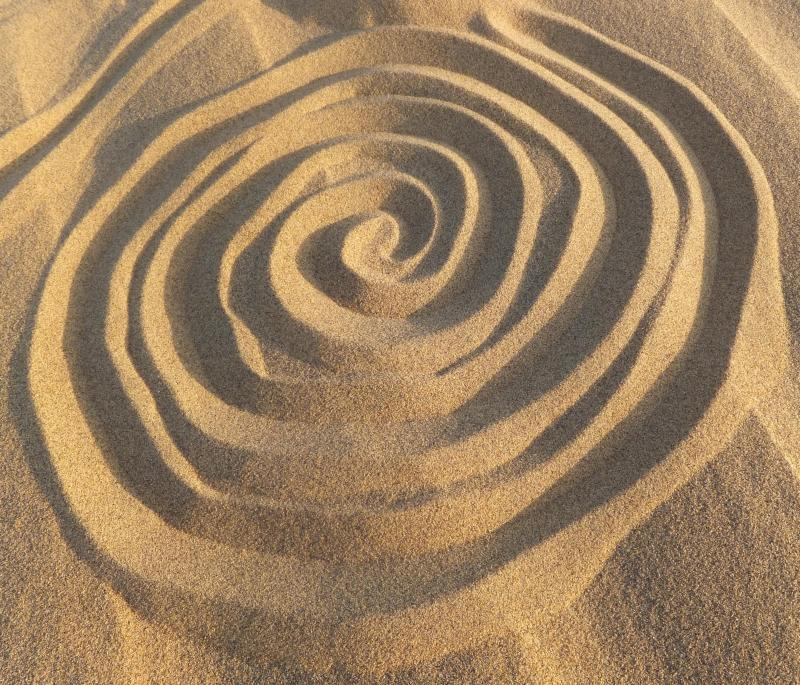
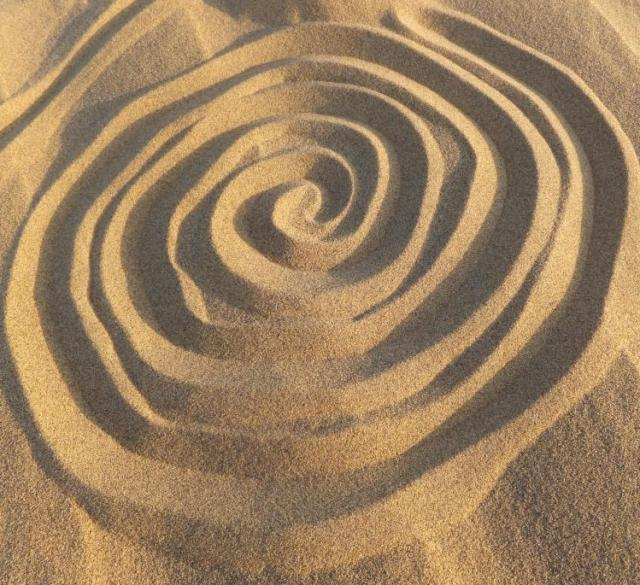
odkaz na přihlášku indiv.lekce + výměna fotek

diff --git a/index.md b/index.md
@@ -3,19 +3,19 @@ title: Jóga je živá cesta prošlapávaná již tisíce let
 layout: splash
 excerpt: Vyzkoušej, jak může pomoci tobě...
 header:
-  overlay_image: /assets/images/header01.jpeg
+  overlay_image: /assets/images/DSCF5705.JPG
   overlay_filter: 0.2
   overlay_color: #000
 intro:
   - excerpt: Jóga učí, jak se zastavit v běhu dní a vnímat přítomnost. Přináší zklidnění a radost, pomáhá nám spřátelit se s tím, kým jsme.
 feature_row:
-  - image_path: /assets/images/pisek-mandala.jpeg
+  - image_path: /assets/images/rybalka3.jpeg
     alt: Skupinové lekce
     title: Skupinové lekce
     excerpt: Pravidelná cvičení ve skupinách do 10 lidí.
     url: /skupiny/
     btn_class: "btn--primary"
-  - image_path: /assets/images/vodopad.jpeg
+  - image_path: /assets/images/5F3A2481.jpg
     alt: Individuální lekce
     title: Individuální lekce
     excerpt: Cvičení jógy dle individuálních potřeb.

diff --git a/_pages/kdo jsem.md b/_pages/kdo jsem.md
@@ -7,3 +7,5 @@ Jsem cvičitelka jógy - jóga mne přitáhla ještě v období mého studia na 
 Po mnoha letech vlastní praxe, účasti na různých seminářích a kurzech jsem absolvovala kurz pro cvičitele jógy získala certifikát cvičitelky, abych mohla vést skupinové i individuální lekce. Dělá mi radost, když mohu pomoci ostatním cítit se lépe – fyzicky i psychicky. Zároveň i pro mne jsou lekce nesmírně obohacující zkušeností na mé vlastní cestě jemné jógy.
 
 V kolébce jógy – Indii – jsem byla zatím dvakrát a cítila jsem tam duchovnost až do morku kostí. Doufám, že se tam ještě podívám, přesto jsem šťastná tady a teď - v české kotlině.
+
+![pozice]({{ site.baseurl }}/assets/images/5F3A2544.jpg){:height="553px" width="350px" .align-center}

diff --git a/_pages/skupinove lekce.md b/_pages/skupinove lekce.md
@@ -14,4 +14,4 @@ Při cvičení propojujeme dech, tělo i mysl, můžeme se zklidnit v běhu dní
 |Ordinace PL Karlín, s.r.o.<br/>Šaldova 24<br/>Praha 8 - Karlín| Centrum Rybalka<br/>Rybalkova 55<br/>Praha 10 - Vršovice|
 |200 Kč/lekce (pololetní předplatné)<br/>250 Kč/lekce (jednorázová účast)|150 Kč/lekce (pololetní předplatné)<br/>200 Kč/lekce (jednorázová účast)|
 |======|======|
-|[Přihláška](http://ow.ly/fN7V30fSWIN)                         | [Přihláška](https://docs.google.com/forms/d/e/1FAIpQLScX4KyS0UKryEC8-ZRAVG1NFVd_cwCj4_cIGfcSY1TmJwEC8g/viewform)|
+|[Přihláška](http://ow.ly/fN7V30fSWIN)                         | [Přihláška](https://goo.gl/forms/tjNq4USOVAQxTP5k2)|

diff --git a/_pages/jemna joga.md b/_pages/jemna joga.md
@@ -9,4 +9,4 @@ Kombinuji klasický přístup hathajógy s vývojovou kineziologií vycházejíc
 
 Jemná jóga je pro mne cestou sebepoznání, vnitřní transformace, díky které přinášíme vědomí do svého života. Uvědomujeme si, kým jsme, a přijímáme svoji vnitřní podstatu. V sebepoznání se otevíráme novému pohledu na svět, otevíráme své srdce a mysl novým možnostem, učíme se nacházet vlastní zdroje, radost a lehkost.
 
-![pozice]({{ site.baseurl }}/assets/images/monika02.jpeg){:height="553px" width="350px" .align-center}
+![pozice]({{ site.baseurl }}/assets/images/5F3A2533.jpg){:height="553px" width="350px" .align-center}

diff --git a/_pages/individualni lekce.md b/_pages/individualni lekce.md
@@ -15,3 +15,6 @@ Cena
 1 individuální lekce jógy (80 min) - pro 2 osoby, v rámci předplatného na 1 měsíc (1x týdně) 700,-Kč
 
 1 individuální lekce jógy (80 min) - pro 1 - 2 osoby - jednorázová konzultace 800,- Kč
+
+
+[Přihláška](https://goo.gl/forms/0YlML20bjq5iUS5u1)|
